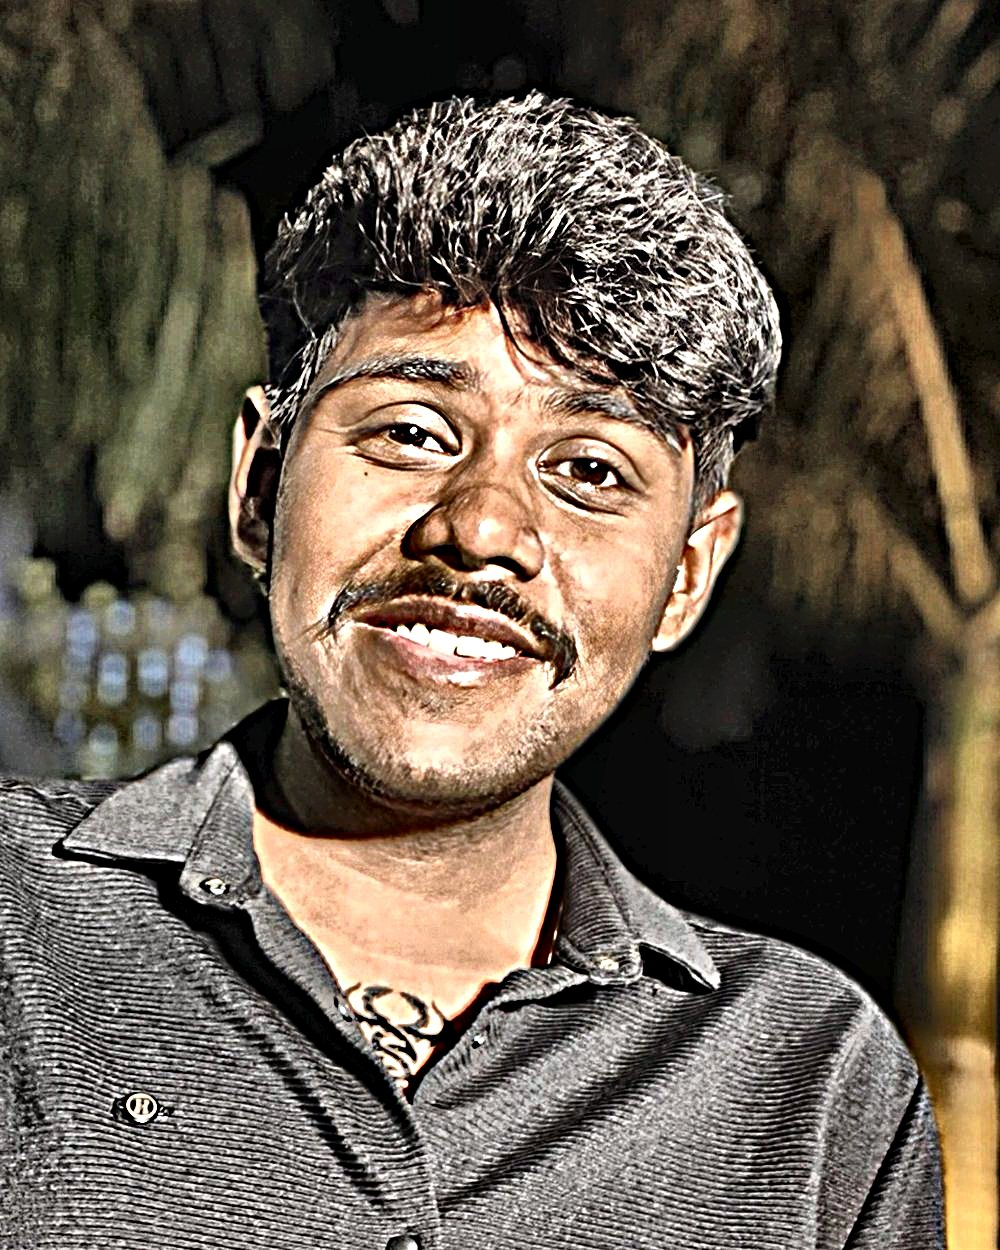
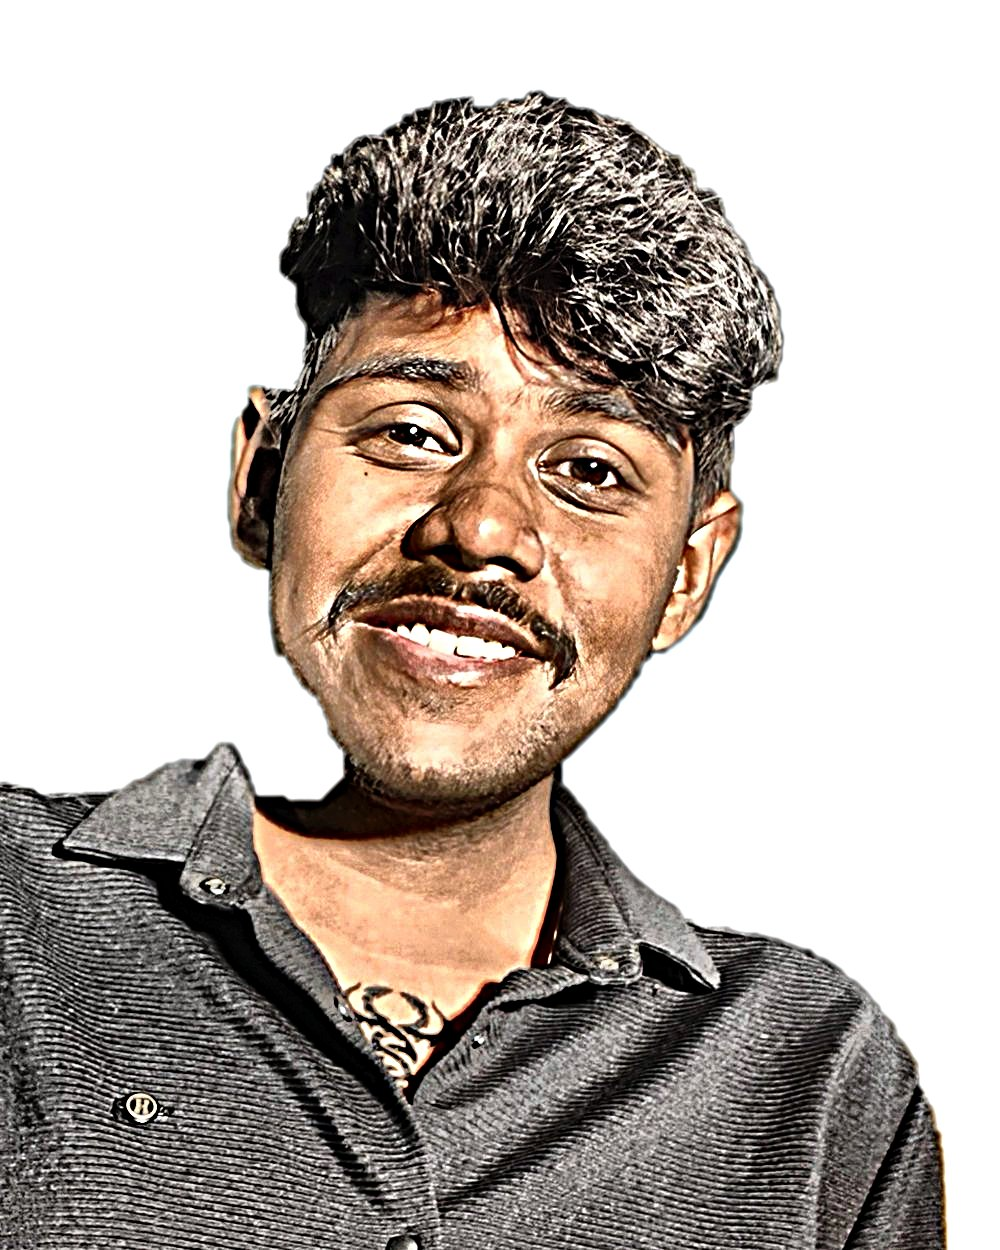
Portrait: no frame. A cut-out figure of dots that drifts, leans toward the cursor and has free particles orbiting it
Claude-Session: https://claude.ai/code/session_01BJtJpFH6hEUmyFVEyCa3Sv

diff --git a/js/portrait.js b/js/portrait.js
@@ -4,7 +4,9 @@
    A hex lattice of dots; each dot's size follows the tone of a source picture, so the
    picture is made of the same kind of points as the figure behind the page. The dots fly in
    from the right (from the figure) when the portrait scrolls into view, settle on springs,
-   and part around the cursor, turning cobalt where they are disturbed.
+   and part around the cursor, turning cobalt where they are disturbed. Only the person is drawn
+   (the source has a paper-white background), so there is no frame. At rest the dots keep drifting,
+   lean toward the cursor by depth, and a few free particles orbit the figure.
 
    Source: if the <figure id="portrait"> has data-src, that photo is used. Otherwise, or if
    the photo fails to load, a monogram of the initials is drawn instead.
@@ -26,6 +28,8 @@
   var mode = 'monogram', image = null;
   var vis = false, raf = 0, last = 0, t0 = 0, assembled = false, settled = false;
   var ptr = { x: -1e4, y: -1e4, cx: -1e4, cy: -1e4, on: false };
+  var par = { x: 0, y: 0 };                 // the field leans toward the cursor, near dots more than far ones
+  var NS = 150, so = null;                  // free particles that orbit the figure
 
   function clamp(v, a, b) { return v < a ? a : v > b ? b : v; }
   function smooth(t) { t = clamp(t, 0, 1); return t * t * (3 - 2 * t); }
@@ -82,7 +86,11 @@
       var sy = clamp(Math.round(pts[k * 2 + 1] / H * (sh - 1)), 0, sh - 1);
       var v = clamp((lum[sy * sw + sx] - lo) / (hi - lo), 0, 1);
       if (!(mode === 'photo' && fig.getAttribute('data-tone') === 'light')) v = 1 - v;   // data-tone="light": dots follow the light, for a dark photo
-      out[k] = mode === 'photo' ? Math.pow(v, 1.12) : v;
+      if (mode === 'photo') {
+        // the figure dissolves toward the bottom and sides of its frame instead of ending on a line
+        var fy = 1 - smooth((sy / (sh - 1) - 0.74) / 0.24), fx = smooth(Math.min(sx, sw - 1 - sx) / (sw * 0.07));
+        out[k] = Math.pow(v, 1.12) * fy * fx;
+      } else out[k] = v;
     }
     return out;
   }
@@ -122,12 +130,24 @@
       }
       wait[j] = (1 - hx[j] / W) * 0.3 + hash(j + 4000) * 0.55;
     }
+    so = new Float32Array(NS * 6);
+    for (var m = 0; m < NS; m++) {
+      so[m * 6] = 0.34 + hash(m + 100) * 0.3;          // x radius, as a share of the width
+      so[m * 6 + 1] = 0.36 + hash(m + 200) * 0.3;      // y radius
+      so[m * 6 + 2] = hash(m + 300) * TAU;             // phase
+      so[m * 6 + 3] = (0.05 + hash(m + 400) * 0.12) * (hash(m + 450) < 0.5 ? -1 : 1);   // speed
+      so[m * 6 + 4] = 0.9 + hash(m + 500) * 1.5;       // radius
+      so[m * 6 + 5] = hash(m + 600);                   // colour pick
+    }
     settled = false;
     draw(performance.now());
   }
 
   /* ------------------------------------------------------------------- draw */
   var BREATH = 0.1;
+  // where a dot rests: its place in the picture, a slow drift of its own, and a lean toward the cursor
+  function ax0(i, tt) { return reduceMQ.matches ? 0 : Math.sin(tt * 0.9 + hy[i] * 0.031 + hx[i] * 0.012) * 1.3 + par.x * (0.3 + 0.7 * tone[i]); }
+  function ay0(i, tt) { return reduceMQ.matches ? 0 : Math.cos(tt * 0.8 + hx[i] * 0.027 + hy[i] * 0.009) * 1.3 + par.y * (0.3 + 0.7 * tone[i]); }
   function draw(now) {
     var tt = now / 1000, still = reduceMQ.matches;
     ctx.clearRect(0, 0, W, H);
@@ -143,23 +163,43 @@
       if (!still) rr *= 1 + BREATH * Math.sin(tt * 1.5 + hx[i] * 0.045 + hy[i] * 0.032);
       var dx = x[i] - ptr.cx, dy = y[i] - ptr.cy;
       var near = ptr.on && dx * dx + dy * dy < R2;
-      var moved = (x[i] - hx[i]) * (x[i] - hx[i]) + (y[i] - hy[i]) * (y[i] - hy[i]) > 9 && age > 1.6;
+      var mx = x[i] - hx[i] - ax0(i, tt), my = y[i] - hy[i] - ay0(i, tt);
+      var moved = mx * mx + my * my > 9 && age > 1.6;
       var path = (near || moved) ? blue : ink;
       path.moveTo(x[i] + rr, y[i]);
       path.arc(x[i], y[i], rr, 0, TAU);
     }
     ctx.fillStyle = INK; ctx.fill(ink);
     ctx.fillStyle = COBALT; ctx.fill(blue);
+    if (so && !still && age0 > 1.2) {
+      var sa = smooth((age0 - 1.2) / 1.6), cxm = W * 0.5, cym = H * 0.5;
+      var sInk = new Path2D(), sBlue = new Path2D();
+      for (var m = 0; m < NS; m++) {
+        var a = so[m * 6 + 2] + tt * so[m * 6 + 3];
+        var px = cxm + Math.cos(a) * so[m * 6] * W + Math.sin(tt * 0.31 + m) * 6;
+        var py = cym + Math.sin(a * 1.3 + m) * so[m * 6 + 1] * H + Math.cos(tt * 0.27 + m * 2) * 6;
+        var sr = so[m * 6 + 4] * sa;
+        var pth = so[m * 6 + 5] < 0.3 ? sBlue : sInk;
+        pth.moveTo(px + sr, py); pth.arc(px, py, sr, 0, TAU);
+      }
+      ctx.globalAlpha = 0.55; ctx.fillStyle = INK; ctx.fill(sInk);
+      ctx.globalAlpha = 0.9; ctx.fillStyle = COBALT; ctx.fill(sBlue);
+      ctx.globalAlpha = 1;
+    }
   }
 
   function step(dt, now) {
     var age0 = (now - t0) / 1000;
     var K = 24, C = 8.4;
     var R = 86, F = 1900;
-    var allHome = true;
+    var allHome = true, tt = now / 1000;
+    // the lean follows the cursor across the portrait, easing in and out
+    var lx = ptr.on ? clamp((ptr.cx / W - 0.5) * 2, -1.2, 1.2) * 7 : 0, ly = ptr.on ? clamp((ptr.cy / H - 0.5) * 2, -1.2, 1.2) * 7 : 0;
+    par.x += (lx - par.x) * Math.min(1, dt * 3); par.y += (ly - par.y) * Math.min(1, dt * 3);
     for (var i = 0; i < N; i++) {
       if (!assembled && age0 - wait[i] < 0) { allHome = false; continue; }
-      var ax = (hx[i] - x[i]) * K - vx[i] * C, ay = (hy[i] - y[i]) * K - vy[i] * C;
+      var tx = hx[i] + ax0(i, tt), ty = hy[i] + ay0(i, tt);
+      var ax = (tx - x[i]) * K - vx[i] * C, ay = (ty - y[i]) * K - vy[i] * C;
       if (ptr.on) {
         var dx = x[i] - ptr.cx, dy = y[i] - ptr.cy, d2 = dx * dx + dy * dy;
         if (d2 < R * R && d2 > 0.01) {
@@ -169,7 +209,7 @@
       }
       vx[i] += ax * dt; vy[i] += ay * dt;
       x[i] += vx[i] * dt; y[i] += vy[i] * dt;
-      if (allHome && (Math.abs(x[i] - hx[i]) > 0.3 || Math.abs(y[i] - hy[i]) > 0.3 || Math.abs(vx[i]) > 2 || Math.abs(vy[i]) > 2)) allHome = false;
+      if (allHome && (Math.abs(x[i] - tx) > 3.5 || Math.abs(y[i] - ty) > 3.5)) allHome = false;
     }
     if (!assembled && age0 > 2.4 && allHome) assembled = true;
   }

diff --git a/README.md b/README.md
@@ -29,6 +29,7 @@ Plain HTML, CSS and JavaScript. No framework, no bundler, no build step.
 - A governor only ever steps down: first resolution, then point count. On a 100 Hz or faster screen that can't keep up it renders every second refresh, so frames stay even instead of alternating long and short.
 - The camera and the text share one set of measurements. Each project is a pinned scene, and the camera is parked on its cluster for exactly the scroll range where the scene is held, then flies to the next one while the old title leaves and the new one rises. `main.js` writes three variables on each scene (`--e` entering, `--h` held, `--x` leaving) and sends the same ranges to the figure as camera marks, so the two cannot drift apart.
 - Between sections, each shape's looseness follows how far the camera is from its station (zero when parked, highest half-way), and the points keep surging and swirling about their outlines on a clock, so a stop mid-way still shows motion. Scene text swaps on a clock too (pinned scenes overlap and swap in place), so any resting place shows exactly one readable scene and the page is never moved for you.
+- The portrait is a halftone of `assets/portrait.jpg`, a cut-out on a paper-white background so there is no frame. The dots drift, lean toward the cursor by depth and part around it, and 150 free particles orbit the figure. With reduced motion it is drawn once and stays still. To change the photo, replace the file; for a dark photo with no cut-out, set `data-tone="light"` on the figure only if the picture is better as light dots.
 - The skills section is a two-way map. Each skill button carries `data-used` (project numbers, in page order) and shows how many projects it shipped in; a project's stack line is read from its case text. Hover or focus previews, click or tap keeps a selection, Escape clears it. Edit `data-used` in `index.html` when a project's stack changes.
 - Scatter is driven by scroll speed. Every point has a direction and distance to fly to; a spring rises quickly with scroll speed and settles more slowly, so a shape the camera is parked on is exact. Shapes also turn about their own vertical axis to face the camera, so none is seen edge-on.
 - Shapes are authored in `js/scene.js` (`SHAPES`) with a small drawing kit: outlines are sampled at an even spacing and carry edges, interior dots are loose. Outline points are never thinned by the governor.
